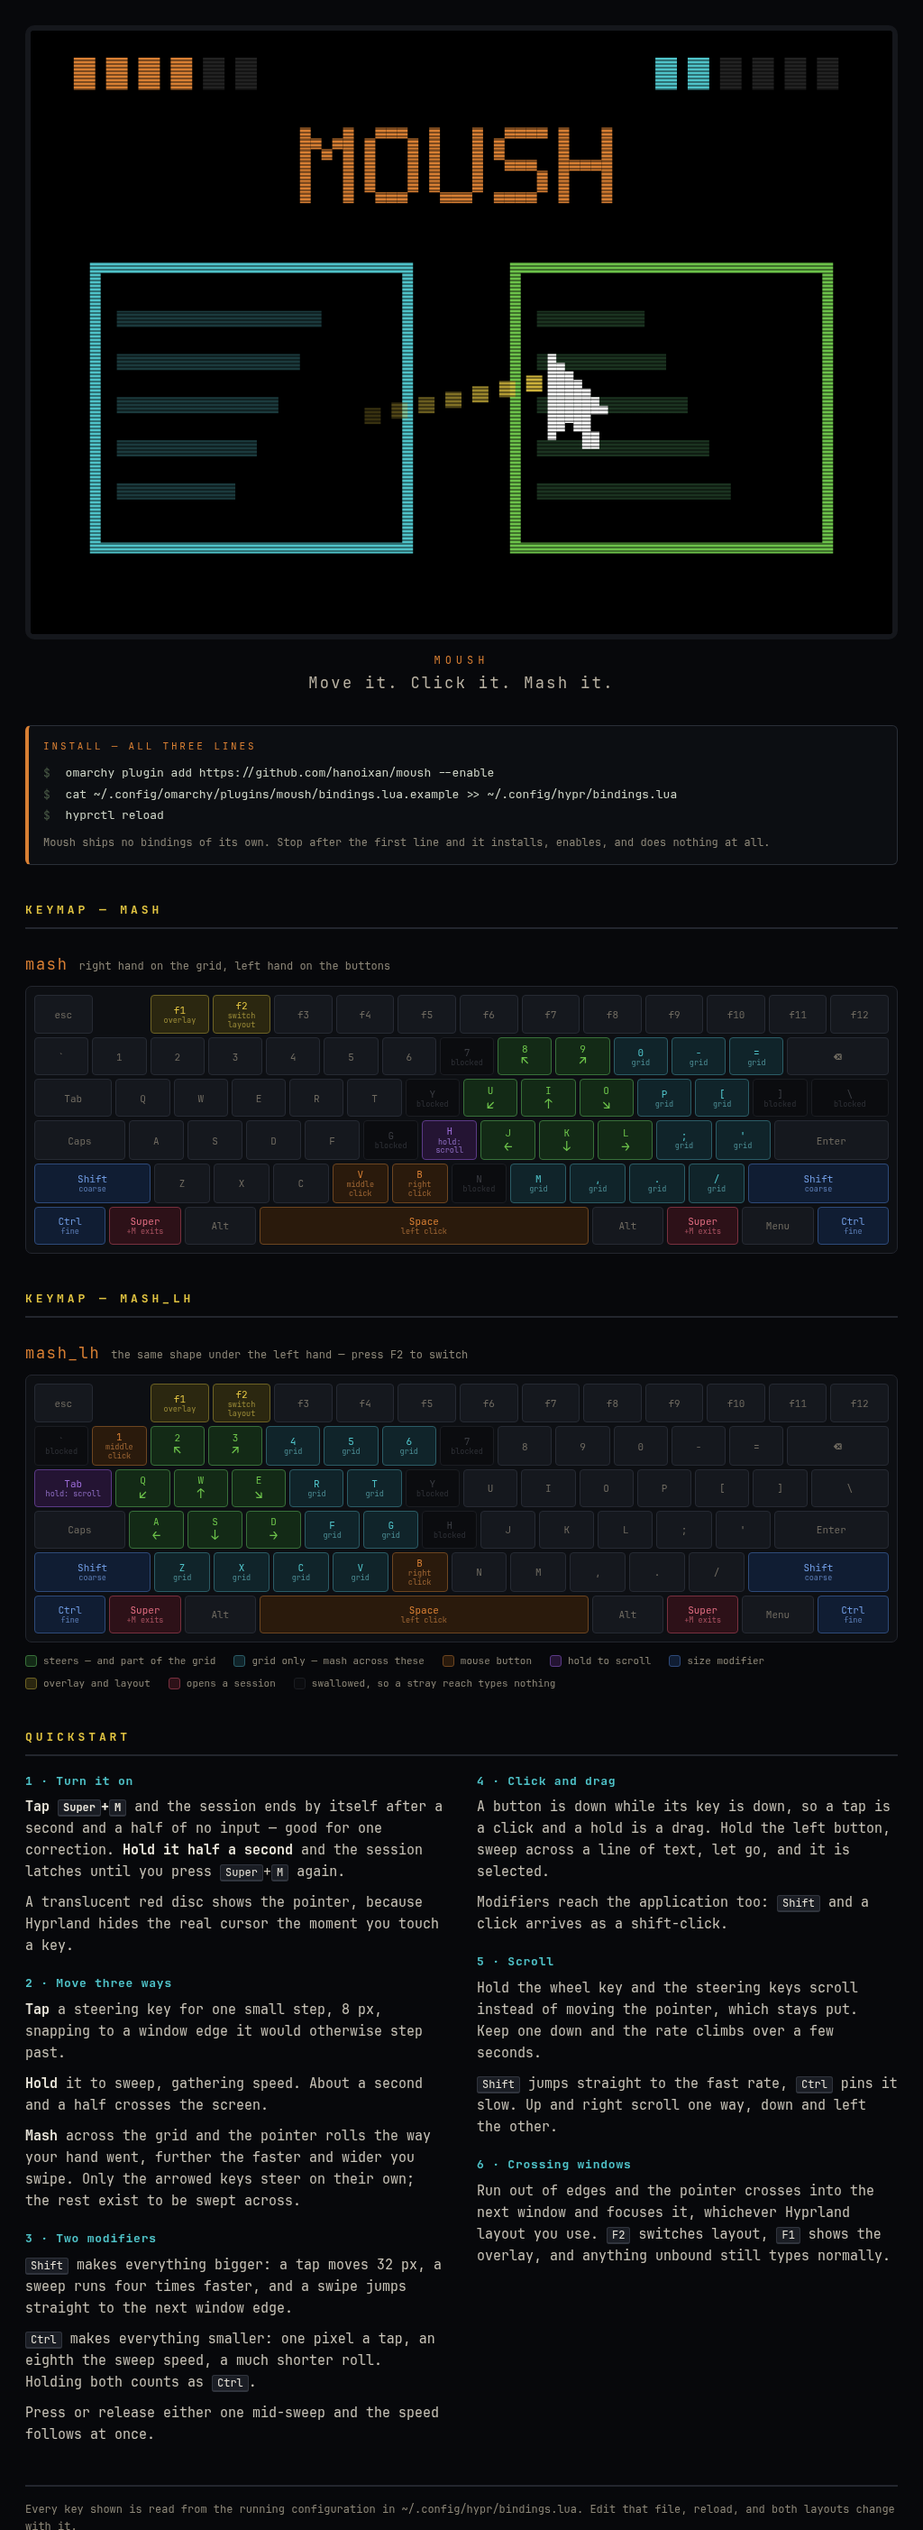
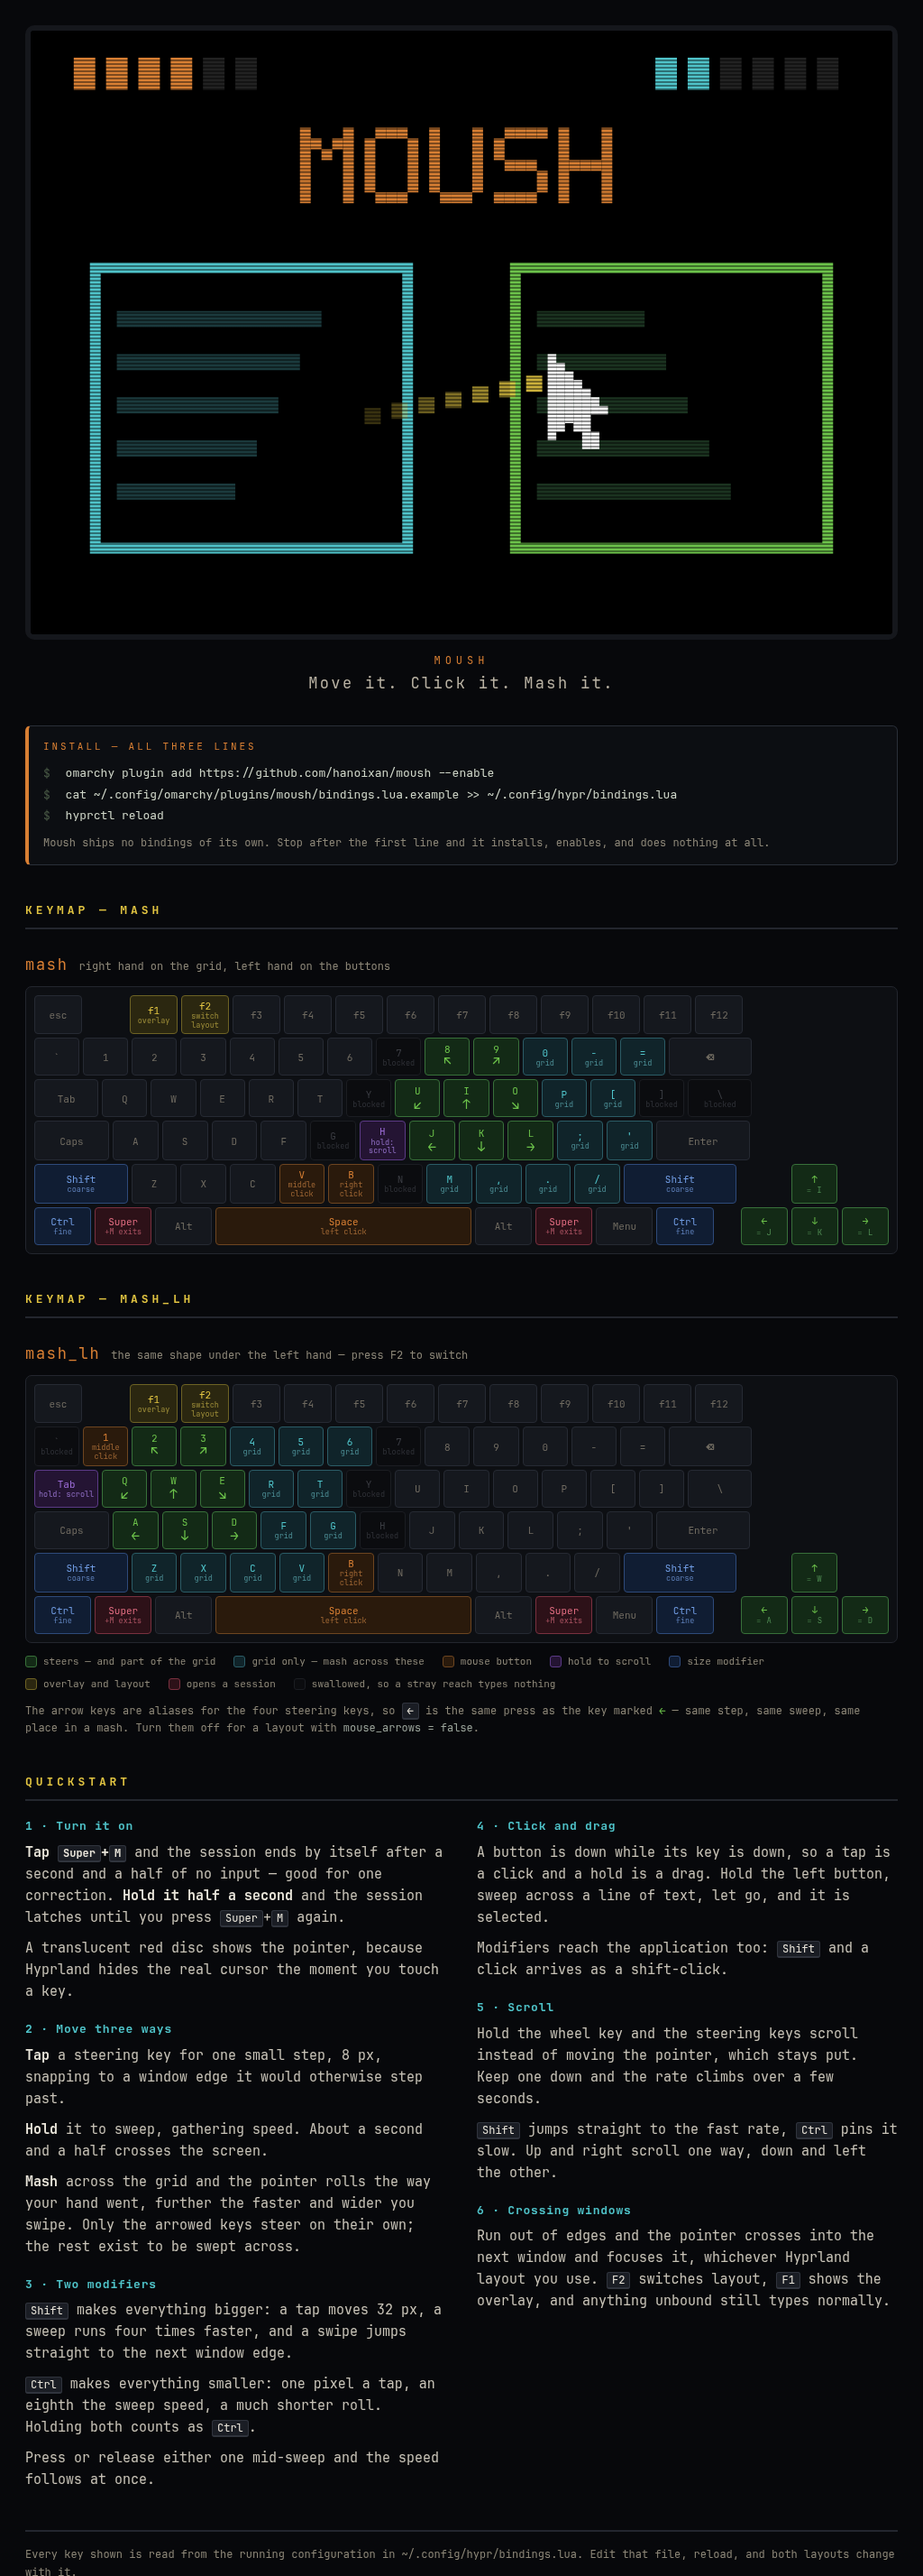
Add mouse_arrows: the arrow keys stand in for the steering keys
Per mode, defaulting to true. An arrow is bound to the same action as the key
dirs maps to that direction, so nothing downstream can tell which of the two was
pressed: same step, same coarse and fine sizes, same sweep when held, same place
in a mash. Verified against the key it aliases in each case, including a three-key
gesture that rolls identically whether it ends on the up key or the up arrow.

Two places could tell them apart, and both are handled. Asking whether a key is
still held now accepts either name, which matters for the sweep that outlives its
repeats and for the scroll key poll. keyDownExpr takes a list rather than a single
label to do it.

The page grows an arrow cluster -- it had none, so there was nowhere to show this
-- and each arrow says which key it stands in for.

Claude-Session: https://claude.ai/code/session_01QCQs9JcoiEdegEtcQ2pzbD

diff --git a/docs/moush.html b/docs/moush.html
@@ -50,6 +50,7 @@ kbd{background:#1a1d24;border:1px solid #30343d;border-bottom-width:2px;border-r
 .r-grid .cap{color:var(--cyan)} .r-grid .note{color:#4c8d94}
 .r-steer{background:#132a16;border-color:#38703a}
 .r-steer .cap{color:var(--green)} .r-steer .note{font-size:15px;color:var(--green)}
+.r-steer .note.alias{font-size:9px;color:#4f8a52;letter-spacing:.04em}
 .r-btn{background:#2a1a0c;border-color:#6d4520}
 .r-btn .cap{color:var(--orange)} .r-btn .note{color:#a06734}
 .r-wheel{background:#241433;border-color:#5b3a86}
@@ -62,6 +63,9 @@ kbd{background:#1a1d24;border:1px solid #30343d;border-bottom-width:2px;border-r
 .r-chord .cap{color:#e06c80} .r-chord .note{color:#a85160}
 .r-inert{background:#0b0c0f;border-color:#1b1d22}
 .r-inert .cap{color:#3a3c42} .r-inert .note{color:#303238}
+.arrows{font-size:12px;color:var(--dim);margin:11px 0 0}
+.arrows .ar{color:var(--green)}
+.arrows code{color:#9aa39a}
 .legend{display:flex;flex-wrap:wrap;gap:8px 20px;margin:12px 0 0;font-size:11px}
 .legend span{display:flex;align-items:center;gap:7px;color:var(--dim)}
 .sw{width:13px;height:13px;border-radius:3px;border:1px solid}
@@ -101,6 +105,7 @@ installs, enables, and does nothing at all.</p>
 <div class="key" style="flex:1"><span class="cap">f10</span></div>
 <div class="key" style="flex:1"><span class="cap">f11</span></div>
 <div class="key" style="flex:1"><span class="cap">f12</span></div>
+<div class="kgap" style="flex:3.5"></div>
 </div>
 <div class="kbrow">
 <div class="key" style="flex:1"><span class="cap">`</span></div>
@@ -117,6 +122,7 @@ installs, enables, and does nothing at all.</p>
 <div class="key r-grid" style="flex:1"><span class="cap">-</span><span class="note">grid</span></div>
 <div class="key r-grid" style="flex:1"><span class="cap">=</span><span class="note">grid</span></div>
 <div class="key" style="flex:2"><span class="cap">⌫</span></div>
+<div class="kgap" style="flex:3.5"></div>
 </div>
 <div class="kbrow">
 <div class="key" style="flex:1.5"><span class="cap">Tab</span></div>
@@ -133,6 +139,7 @@ installs, enables, and does nothing at all.</p>
 <div class="key r-grid" style="flex:1"><span class="cap">[</span><span class="note">grid</span></div>
 <div class="key r-inert" style="flex:1"><span class="cap">]</span><span class="note">blocked</span></div>
 <div class="key r-inert" style="flex:1.5"><span class="cap">\</span><span class="note">blocked</span></div>
+<div class="kgap" style="flex:3.5"></div>
 </div>
 <div class="kbrow">
 <div class="key" style="flex:1.75"><span class="cap">Caps</span></div>
@@ -148,6 +155,7 @@ installs, enables, and does nothing at all.</p>
 <div class="key r-grid" style="flex:1"><span class="cap">;</span><span class="note">grid</span></div>
 <div class="key r-grid" style="flex:1"><span class="cap">&#x27;</span><span class="note">grid</span></div>
 <div class="key" style="flex:2.25"><span class="cap">Enter</span></div>
+<div class="kgap" style="flex:3.5"></div>
 </div>
 <div class="kbrow">
 <div class="key r-mod" style="flex:2.25"><span class="cap">Shift</span><span class="note">coarse</span></div>
@@ -162,6 +170,9 @@ installs, enables, and does nothing at all.</p>
 <div class="key r-grid" style="flex:1"><span class="cap">.</span><span class="note">grid</span></div>
 <div class="key r-grid" style="flex:1"><span class="cap">/</span><span class="note">grid</span></div>
 <div class="key r-mod" style="flex:2.75"><span class="cap">Shift</span><span class="note">coarse</span></div>
+<div class="kgap" style="flex:1.25"></div>
+<div class="key r-steer" style="flex:1"><span class="cap">↑</span><span class="note alias">= I</span></div>
+<div class="kgap" style="flex:1.25"></div>
 </div>
 <div class="kbrow">
 <div class="key r-mod" style="flex:1.25"><span class="cap">Ctrl</span><span class="note">fine</span></div>
@@ -172,6 +183,10 @@ installs, enables, and does nothing at all.</p>
 <div class="key r-chord" style="flex:1.25"><span class="cap">Super</span><span class="note">+M exits</span></div>
 <div class="key" style="flex:1.25"><span class="cap">Menu</span></div>
 <div class="key r-mod" style="flex:1.25"><span class="cap">Ctrl</span><span class="note">fine</span></div>
+<div class="kgap" style="flex:0.5"></div>
+<div class="key r-steer" style="flex:1"><span class="cap">←</span><span class="note alias">= J</span></div>
+<div class="key r-steer" style="flex:1"><span class="cap">↓</span><span class="note alias">= K</span></div>
+<div class="key r-steer" style="flex:1"><span class="cap">→</span><span class="note alias">= L</span></div>
 </div>
 </div>
 
@@ -194,6 +209,7 @@ installs, enables, and does nothing at all.</p>
 <div class="key" style="flex:1"><span class="cap">f10</span></div>
 <div class="key" style="flex:1"><span class="cap">f11</span></div>
 <div class="key" style="flex:1"><span class="cap">f12</span></div>
+<div class="kgap" style="flex:3.5"></div>
 </div>
 <div class="kbrow">
 <div class="key r-inert" style="flex:1"><span class="cap">`</span><span class="note">blocked</span></div>
@@ -210,6 +226,7 @@ installs, enables, and does nothing at all.</p>
 <div class="key" style="flex:1"><span class="cap">-</span></div>
 <div class="key" style="flex:1"><span class="cap">=</span></div>
 <div class="key" style="flex:2"><span class="cap">⌫</span></div>
+<div class="kgap" style="flex:3.5"></div>
 </div>
 <div class="kbrow">
 <div class="key r-wheel" style="flex:1.5"><span class="cap">Tab</span><span class="note">hold: scroll</span></div>
@@ -226,6 +243,7 @@ installs, enables, and does nothing at all.</p>
 <div class="key" style="flex:1"><span class="cap">[</span></div>
 <div class="key" style="flex:1"><span class="cap">]</span></div>
 <div class="key" style="flex:1.5"><span class="cap">\</span></div>
+<div class="kgap" style="flex:3.5"></div>
 </div>
 <div class="kbrow">
 <div class="key" style="flex:1.75"><span class="cap">Caps</span></div>
@@ -241,6 +259,7 @@ installs, enables, and does nothing at all.</p>
 <div class="key" style="flex:1"><span class="cap">;</span></div>
 <div class="key" style="flex:1"><span class="cap">&#x27;</span></div>
 <div class="key" style="flex:2.25"><span class="cap">Enter</span></div>
+<div class="kgap" style="flex:3.5"></div>
 </div>
 <div class="kbrow">
 <div class="key r-mod" style="flex:2.25"><span class="cap">Shift</span><span class="note">coarse</span></div>
@@ -255,6 +274,9 @@ installs, enables, and does nothing at all.</p>
 <div class="key" style="flex:1"><span class="cap">.</span></div>
 <div class="key" style="flex:1"><span class="cap">/</span></div>
 <div class="key r-mod" style="flex:2.75"><span class="cap">Shift</span><span class="note">coarse</span></div>
+<div class="kgap" style="flex:1.25"></div>
+<div class="key r-steer" style="flex:1"><span class="cap">↑</span><span class="note alias">= W</span></div>
+<div class="kgap" style="flex:1.25"></div>
 </div>
 <div class="kbrow">
 <div class="key r-mod" style="flex:1.25"><span class="cap">Ctrl</span><span class="note">fine</span></div>
@@ -265,9 +287,17 @@ installs, enables, and does nothing at all.</p>
 <div class="key r-chord" style="flex:1.25"><span class="cap">Super</span><span class="note">+M exits</span></div>
 <div class="key" style="flex:1.25"><span class="cap">Menu</span></div>
 <div class="key r-mod" style="flex:1.25"><span class="cap">Ctrl</span><span class="note">fine</span></div>
+<div class="kgap" style="flex:0.5"></div>
+<div class="key r-steer" style="flex:1"><span class="cap">←</span><span class="note alias">= A</span></div>
+<div class="key r-steer" style="flex:1"><span class="cap">↓</span><span class="note alias">= S</span></div>
+<div class="key r-steer" style="flex:1"><span class="cap">→</span><span class="note alias">= D</span></div>
 </div>
 </div>
 <div class="legend"><span><i class="sw" style="background:#132a16;border-color:#38703a"></i>steers &mdash; and part of the grid</span><span><i class="sw" style="background:#10242a;border-color:#2b5c66"></i>grid only &mdash; mash across these</span><span><i class="sw" style="background:#2a1a0c;border-color:#6d4520"></i>mouse button</span><span><i class="sw" style="background:#241433;border-color:#5b3a86"></i>hold to scroll</span><span><i class="sw" style="background:#101d33;border-color:#2e4a7a"></i>size modifier</span><span><i class="sw" style="background:#2b2710;border-color:#6d6224"></i>overlay and layout</span><span><i class="sw" style="background:#2d1118;border-color:#79303f"></i>opens a session</span><span><i class="sw" style="background:#0b0c0f;border-color:#1b1d22"></i>swallowed, so a stray reach types nothing</span></div>
+<p class="arrows">The arrow keys are aliases for the four steering keys, so
+<kbd>&larr;</kbd> is the same press as the key marked <span class="ar">&larr;</span>
+&mdash; same step, same sweep, same place in a mash. Turn them off for a layout
+with <code>mouse_arrows = false</code>.</p>
 
 
 <h2>Quickstart</h2>

diff --git a/Moush.qml b/Moush.qml
@@ -126,6 +126,9 @@ Item {
   property var mashPos: ({})                  // index -> {x, y}
   property var mashDirs: ({})                 // index -> direction, for lone presses
   property var modeKeys: ({})
+  property bool mouseArrows: true             // arrow keys alias the steering keys
+  readonly property var arrowSym: ({ up: "Up", down: "Down",
+                                     left: "Left", right: "Right" })
   property string coarseMod: "SHIFT"          // shown in the overlay; the binding
   property string fineMod: "CTRL"             // itself lives in bindings.lua
   // The physical keys behind a modifier name, for asking whether one is still down.
@@ -221,6 +224,7 @@ Item {
     }
     if (k === "chord_key") { if (v !== "") root.chordKey = v.split(","); return }
     if (k === "chord_mods") { root.chordMods = v === "" ? [] : v.split(","); return }
+    if (k === "mouse_arrows") { root.mouseArrows = (v === "true"); return }
     if (k === "coarse_mod") { root.coarseMod = v; return }
     if (k === "fine_mod") { root.fineMod = v; return }
     if (k === "lmb" || k === "mmb" || k === "rmb" || k === "wheel"
@@ -1639,7 +1643,10 @@ Item {
       var key = ""
       for (var idx in root.mashDirs)
         if (root.mashDirs[idx] === names[i]) key = root.mashLabels[idx] || ""
-      terms.push('"' + names[i] + '=" .. tostring(' + (key === "" ? "false" : 'd("' + key + '")') + ')')
+      var test = key === "" ? "false" : 'd("' + key + '")'
+      if (key !== "" && root.mouseArrows && root.arrowSym[names[i]])
+        test = '(' + test + ' or d("' + root.arrowSym[names[i]] + '"))'
+      terms.push('"' + names[i] + '=" .. tostring(' + test + ')')
     }
     // The modifiers ride along in the same question. Asking separately meant two
     // processes competing every 70ms, and the sustain answer arriving late enough
@@ -1703,16 +1710,33 @@ Item {
     }
   }
 
-  function keyDownExpr(label) {
-    if (!label || label === "") return 'return "false"'
-    return 'local s = "' + label + '" '
-         + 'for _, n in ipairs({ s, s:lower(), s:sub(1,1):upper() .. s:sub(2):lower() }) do '
-         + 'if hl.is_key_down(n) then return "true" end end return "false"'
+  // Every name that counts as this action still being held: the key itself, and
+  // the arrow aliasing it when mouse_arrows is on. A press carries no record of
+  // which one produced it, so a question about one has to accept either.
+  function pollNames(gridAction) {
+    var lab = root.gridLabel(gridAction)
+    if (!lab) return []
+    var out = [lab]
+    var dn = root.gridDir(gridAction)
+    if (root.mouseArrows && dn && root.arrowSym[dn]) out.push(root.arrowSym[dn])
+    return out
+  }
+
+  function keyDownExpr(labels) {
+    var list = (typeof labels === "string") ? (labels === "" ? [] : [labels]) : (labels || [])
+    if (list.length === 0) return 'return "false"'
+    var tests = []
+    for (var i = 0; i < list.length; i++)
+      tests.push('d("' + String(list[i]).replace(/"/g, '') + '")')
+    return 'local function d(s) for _, n in ipairs({ s, s:lower(), '
+         + 's:sub(1,1):upper() .. s:sub(2):lower() }) do '
+         + 'if hl.is_key_down(n) then return true end end return false end '
+         + 'return tostring(' + tests.join(" or ") + ')'
   }
 
   Process {
     id: scrollKeyProbe
-    command: ["hyprctl", "repl", root.keyDownExpr(root.gridLabel(root.scrollHoldName))]
+    command: ["hyprctl", "repl", root.keyDownExpr(root.pollNames(root.scrollHoldName))]
     stdout: StdioCollector {
       onStreamFinished: {
         // Asking Hyprland takes about 150ms, which is longer than the gap between

diff --git a/tools/genpage.py b/tools/genpage.py
@@ -12,20 +12,28 @@ def inert(mode):
     return re.findall(r'"([^"]+)"', m.group(1) if m else "")
 
 # ---- keyboard geometry: US ANSI, widths in key units -----------------------
+# Widths in key units. Every row totals 18.5 so the columns line up, with the
+# arrow cluster tucked into the right-hand 3.5 the way a compact board does it.
 ROWS = [
- [("Escape","esc",1.0),("","gap",1.0)] + [("F%d"%i,"f%d"%i,1.0) for i in range(1,13)],
+ [("Escape","esc",1.0),("","gap",1.0)] + [("F%d"%i,"f%d"%i,1.0) for i in range(1,13)] +
+   [("","gap",3.5)],
  [("grave","`",1.0)] + [(str(d),str(d),1.0) for d in [1,2,3,4,5,6,7,8,9,0]] +
-   [("minus","-",1.0),("equal","=",1.0),("BackSpace","⌫",2.0)],
+   [("minus","-",1.0),("equal","=",1.0),("BackSpace","⌫",2.0),("","gap",3.5)],
  [("Tab","Tab",1.5)] + [(c,c,1.0) for c in "QWERTYUIOP"] +
-   [("bracketleft","[",1.0),("bracketright","]",1.0),("backslash","\\",1.5)],
+   [("bracketleft","[",1.0),("bracketright","]",1.0),("backslash","\\",1.5),
+    ("","gap",3.5)],
  [("Caps","Caps",1.75)] + [(c,c,1.0) for c in "ASDFGHJKL"] +
-   [("semicolon",";",1.0),("apostrophe","'",1.0),("Return","Enter",2.25)],
+   [("semicolon",";",1.0),("apostrophe","'",1.0),("Return","Enter",2.25),
+    ("","gap",3.5)],
  [("Shift_L","Shift",2.25)] + [(c,c,1.0) for c in "ZXCVBNM"] +
-   [("comma",",",1.0),("period",".",1.0),("slash","/",1.0),("Shift_R","Shift",2.75)],
+   [("comma",",",1.0),("period",".",1.0),("slash","/",1.0),("Shift_R","Shift",2.75),
+    ("","gap",1.25),("Up","↑",1.0),("","gap",1.25)],
  [("Control_L","Ctrl",1.25),("Super_L","Super",1.25),("Alt_L","Alt",1.25),
   ("space","Space",6.25),("Alt_R","Alt",1.25),("Super_R","Super",1.25),
-  ("Menu","Menu",1.25),("Control_R","Ctrl",1.25)],
+  ("Menu","Menu",1.25),("Control_R","Ctrl",1.25),("","gap",0.5),
+  ("Left","←",1.0),("Down","↓",1.0),("Right","→",1.0)],
 ]
+ARROW_KEY = {"up":"Up","down":"Down","left":"Left","right":"Right"}
 ARROW = {"up":"↑","down":"↓","left":"←","right":"→",
          "upleft":"↖","upright":"↗","downleft":"↙","downright":"↘"}
 
@@ -48,6 +56,9 @@ def roles_for(mode):
     r[d["wheel"]] = ("wheel","hold: scroll")
     r[d["debug"]] = ("glob","overlay")
     r[d["cycle"]] = ("glob","switch layout")
+    if d.get("mouse_arrows") == "true":
+        for k, dn in dirs.items():
+            if dn in ARROW_KEY: r[ARROW_KEY[dn]] = ("steer", "= " + k)
     for k in inert(mode): r[k] = ("inert","blocked")
     for k in ("Shift_L","Shift_R"): r[k] = ("mod","coarse")
     for k in ("Control_L","Control_R"): r[k] = ("mod","fine")
@@ -64,7 +75,8 @@ def keyboard(mode):
                 out.append('<div class="kgap" style="flex:%g"></div>' % w); continue
             role, note = r.get(name, (None,None))
             cls = "key" + (" r-"+role if role else "")
-            sub = '<span class="note">%s</span>' % html.escape(note) if note else ""
+            cls_note = "note alias" if (note or "").startswith("= ") else "note"
+            sub = '<span class="%s">%s</span>' % (cls_note, html.escape(note)) if note else ""
             out.append('<div class="%s" style="flex:%g"><span class="cap">%s</span>%s</div>'
                        % (cls, w, html.escape(lab), sub))
         out.append('</div>')
@@ -239,6 +251,7 @@ kbd{background:#1a1d24;border:1px solid #30343d;border-bottom-width:2px;border-r
 .r-grid .cap{color:var(--cyan)} .r-grid .note{color:#4c8d94}
 .r-steer{background:#132a16;border-color:#38703a}
 .r-steer .cap{color:var(--green)} .r-steer .note{font-size:15px;color:var(--green)}
+.r-steer .note.alias{font-size:9px;color:#4f8a52;letter-spacing:.04em}
 .r-btn{background:#2a1a0c;border-color:#6d4520}
 .r-btn .cap{color:var(--orange)} .r-btn .note{color:#a06734}
 .r-wheel{background:#241433;border-color:#5b3a86}
@@ -251,6 +264,9 @@ kbd{background:#1a1d24;border:1px solid #30343d;border-bottom-width:2px;border-r
 .r-chord .cap{color:#e06c80} .r-chord .note{color:#a85160}
 .r-inert{background:#0b0c0f;border-color:#1b1d22}
 .r-inert .cap{color:#3a3c42} .r-inert .note{color:#303238}
+.arrows{font-size:12px;color:var(--dim);margin:11px 0 0}
+.arrows .ar{color:var(--green)}
+.arrows code{color:#9aa39a}
 .legend{display:flex;flex-wrap:wrap;gap:8px 20px;margin:12px 0 0;font-size:11px}
 .legend span{display:flex;align-items:center;gap:7px;color:var(--dim)}
 .sw{width:13px;height:13px;border-radius:3px;border:1px solid}
@@ -281,6 +297,10 @@ installs, enables, and does nothing at all.</p>
 <span class="d">the same shape under the left hand &mdash; press F2 to switch</span></div>
 @@KB2@@
 @@LEGEND@@
+<p class="arrows">The arrow keys are aliases for the four steering keys, so
+<kbd>&larr;</kbd> is the same press as the key marked <span class="ar">&larr;</span>
+&mdash; same step, same sweep, same place in a mash. Turn them off for a layout
+with <code>mouse_arrows = false</code>.</p>
 
 @@QUICK@@
 

diff --git a/README.md b/README.md
@@ -346,6 +346,7 @@ MOUSH = {
 
       buttons = { lmb = "space", mmb = "V", rmb = "B" },
       wheel   = "H",        -- hold to scroll
+      mouse_arrows = true,  -- arrow keys alias the four steering keys
 
       -- bound so they do nothing, rather than typing into your window
       inert = { "N", "7", "Y", "G", "backslash", "bracketright" },
@@ -371,6 +372,13 @@ offset at all. Larger or smaller numbers work too, as long as you are consistent
 
 Only keys in `dirs` steer on their own. Leave a key out of `dirs` and it is purely
 part of the grid.
+
+**The arrow keys stand in for the four cardinal steering keys**, unless a layout
+sets `mouse_arrows = false`. They are aliases rather than a second set of
+bindings: pressing `Left` *is* pressing whichever key `dirs` maps to `left`, with
+the same step, the same sweep when held, the same place in a mash. Measured, a
+gesture ending on the up key and the same gesture ending on the up arrow roll
+identically.
 
 ### The two modifiers
 
